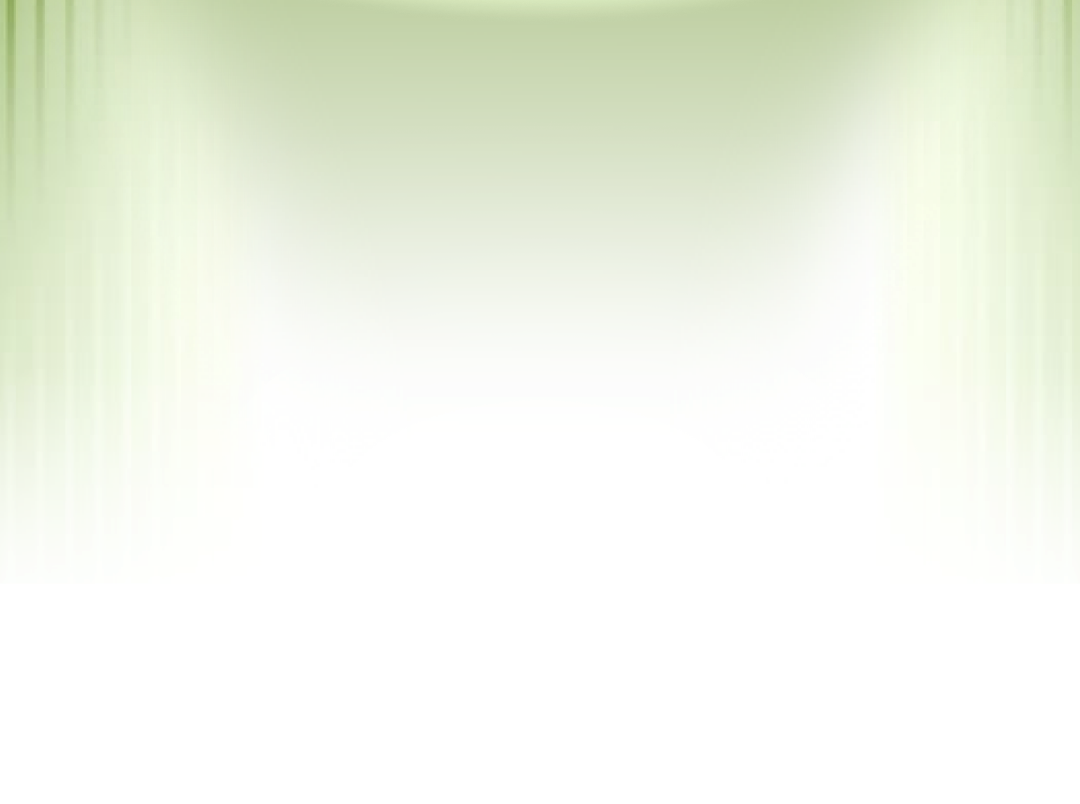
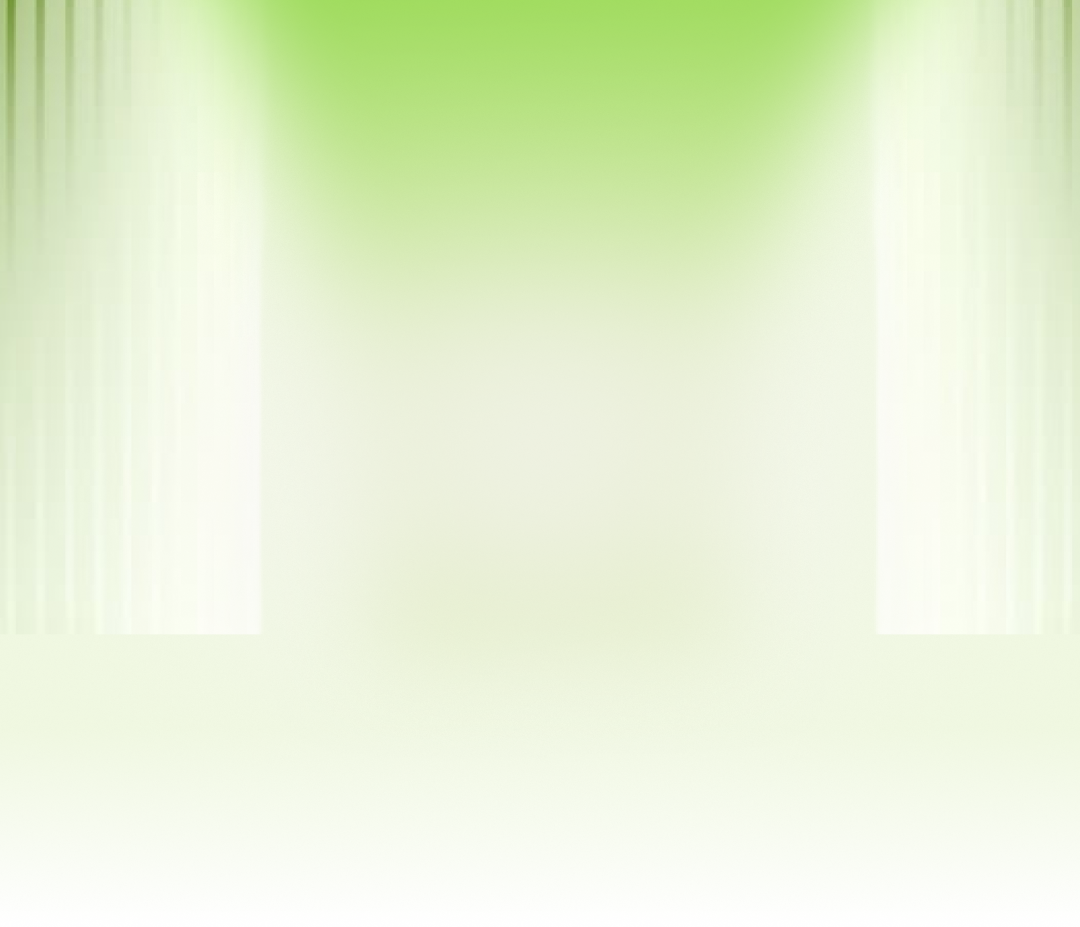
R33o: the chrome band seals — full ramp, 75% veil
Element opacity fades the blurred backdrop too, so the 0.92 cap was
leaking 8% of the SHARP page through the band (user: I can see and read
through it) — ambient now rides the scroll ramp all the way to 1 with
the veil at 75%. Sweeps the parallel session's in-flight work: the blur
radius riding the scroll var (WebKit applies backdrop filters at full
strength whatever the opacity, so the resting band was frosting the
scene on iOS) and freshly re-exported ambient scene PNGs.

diff --git a/app/preview/ReturnExp1Sim.tsx b/app/preview/ReturnExp1Sim.tsx
@@ -4950,7 +4950,8 @@ export default function ReturnExp1Sim({ onExitHome, variant = "v1" }: { onExitHo
               left: 0,
               right: 0,
               zIndex: 0,
-              aspectRatio: "360 / 268",
+              // the R33o exports are 1080×927 (a taller scene than the 1080×804 first cut)
+              aspectRatio: "1080 / 927",
               backgroundImage: "var(--re1-amb-scene)",
               backgroundSize: "100% auto",
               backgroundPosition: "top center",
@@ -4974,10 +4975,17 @@ export default function ReturnExp1Sim({ onExitHome, variant = "v1" }: { onExitHo
             // blur alone left the card digits readable through the band (user
             // call R33k), so a HALF veil of the page colour rides the heavier
             // gaussian: the scene still glows through, the numbers dissolve
-            background: ambient ? `color-mix(in srgb, ${BG_PRIMARY} 68%, transparent)` : BG_PRIMARY,
-            opacity: "calc(var(--re1-t, 0) * 0.92)",
-            backdropFilter: ambient ? "blur(48px)" : "blur(16px)",
-            WebkitBackdropFilter: ambient ? "blur(48px)" : "blur(16px)",
+            background: ambient ? `color-mix(in srgb, ${BG_PRIMARY} 75%, transparent)` : BG_PRIMARY,
+            // element opacity fades the blurred backdrop too, so any cap below 1
+            // leaks that share of the SHARP page through the band (user: I can
+            // read through it, R33o) — ambient rides the ramp all the way to 1
+            opacity: ambient ? "var(--re1-t, 0)" : "calc(var(--re1-t, 0) * 0.92)",
+            // The blur radius rides the scroll var too: WebKit applies a backdrop
+            // filter at full strength whatever the element's opacity, so on iOS
+            // the resting band was blurring the scene under the chrome into a
+            // white strip (user report R33o). At rest this is blur(0) everywhere.
+            backdropFilter: `blur(calc(var(--re1-t, 0) * ${ambient ? 48 : 16}px))`,
+            WebkitBackdropFilter: `blur(calc(var(--re1-t, 0) * ${ambient ? 48 : 16}px))`,
             WebkitMaskImage: "linear-gradient(to bottom, black calc(100% - 20px), transparent)",
             maskImage: "linear-gradient(to bottom, black calc(100% - 20px), transparent)",
             pointerEvents: "none",
